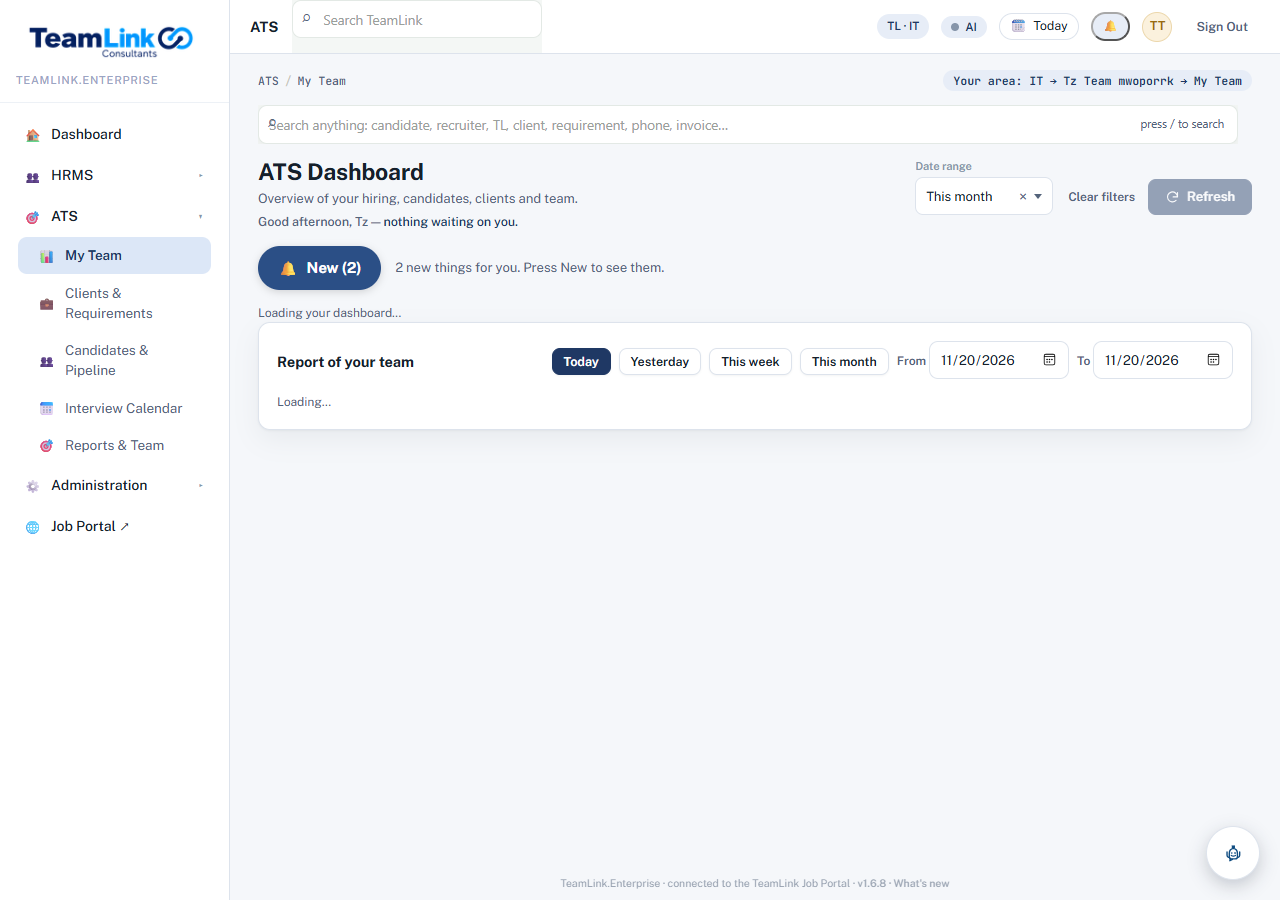
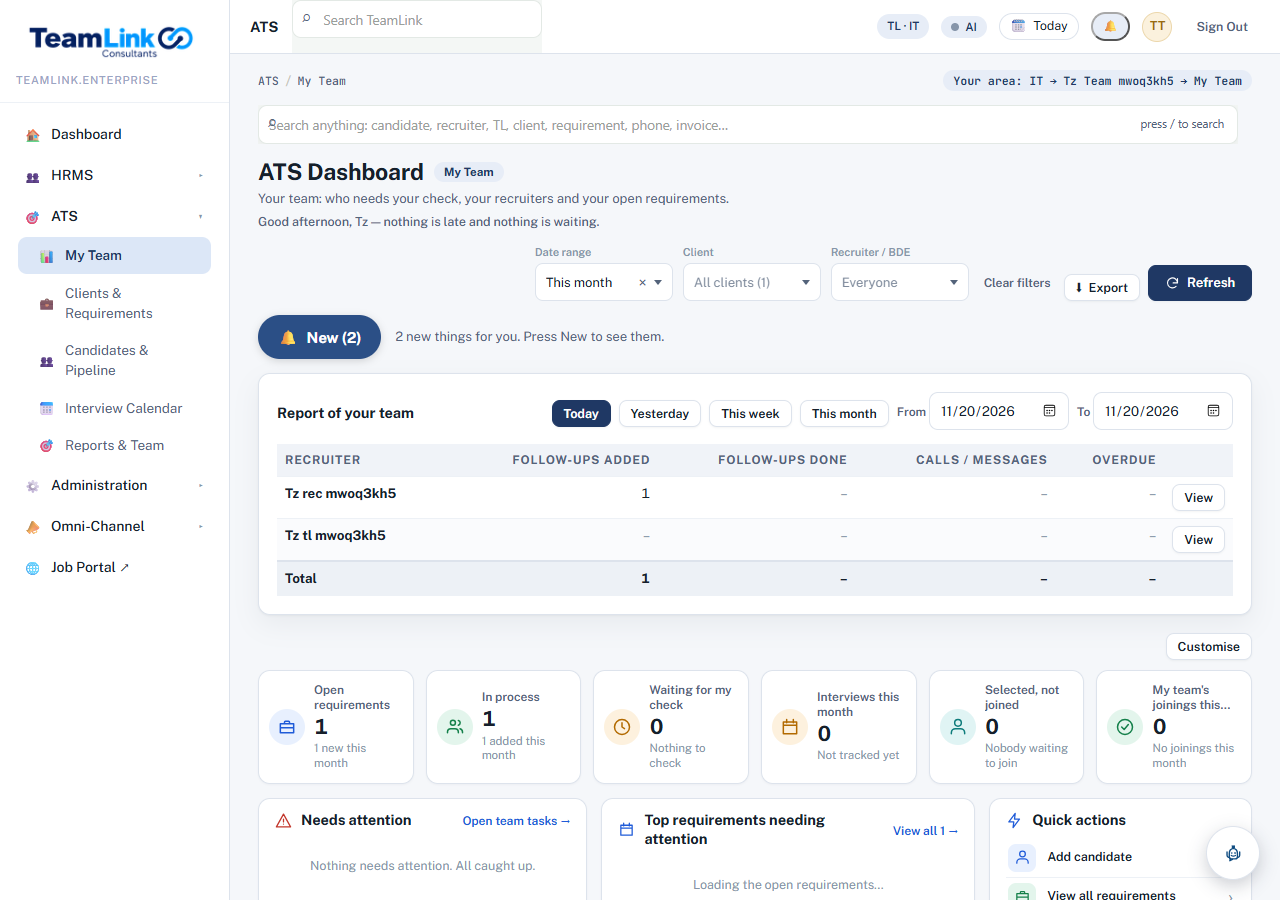
Dashboard: no Carried over / End-of-day cards for a Super Admin; Change team lead offers every department's team leads to a company-wide login; browser smoke and screenshots

diff --git a/backend/scripts/team-report-smoke.js b/backend/scripts/team-report-smoke.js
@@ -40,7 +40,7 @@ const waitFor = async (url, tries = 240) => { for (let i = 0; i < tries; i += 1)
 (async () => {
   const mk = (tag, data, emp) => prisma.user.create({ data: { name: `Tz ${tag} ${RUN}`, email: `tz.${tag}.${RUN}@tz-test.in`, username: `tz.${tag}.${RUN}@tz-test.in`, passwordHash: 'x', status: 'Active', hrmsRole: 'NONE', ...data } })
     .then(async (u) => { if (emp) await prisma.employee.create({ data: { employeeCode: `TZ-${tag}-${RUN}`, name: u.name, userId: u.id, designation: 'Employee', employmentStatus: 'Active', department: 'IT', email: u.email, ...emp } }); return u; });
-  const sa = await mk('admin', { role: 'SUPER_ADMIN', atsRole: 'SUPER_ADMIN', accountsAccess: true, accountsRole: 'SUPER_ADMIN' });
+  const sa = await mk('admin', { role: 'SUPER_ADMIN', atsRole: 'SUPER_ADMIN', accountsAccess: true, accountsRole: 'SUPER_ADMIN', atsAccess: true });
   const tl = await mk('tl', { role: 'TL', atsRole: 'TL', atsDepartment: 'IT', atsScopeDepartments: 'IT', atsScopeTeams: `Tz Team ${RUN}` }, { designation: 'TL', department: 'IT', team: `Tz Team ${RUN}` });
   const rec = await mk('rec', { role: 'EMPLOYEE', atsRole: 'RECRUITER', atsDepartment: 'IT', atsScopeDepartments: 'IT' }, { tl: tl.name, department: 'IT', team: `Tz Team ${RUN}` });
   const client = await prisma.client.create({ data: { name: `Tzorbit Systems ${RUN}`, ownerDepartment: 'IT', agreementStatus: 'ACTIVE' } });
@@ -113,10 +113,12 @@ const waitFor = async (url, tries = 240) => { for (let i = 0; i < tries; i += 1)
       const there = await btn.waitFor({ state: 'visible', timeout: 90000 }).then(() => true).catch(() => false);
       check('Admin: the dashboard has an Overall report button, and no team card of its own', there && (await page.locator('.trc', { hasText: 'Report of your team' }).count()) === 0);
       if (there) {
+        await page.waitForTimeout(3000);
+        check('Admin: no "Carried over from yesterday" and no "My end-of-day report" on the dashboard', !(await page.evaluate(() => /Carried over from yesterday|My end-of-day report/.test(document.body.innerText))));
         await btn.click();
         const panel = page.locator('.trd-panel', { hasText: 'Overall report' });
         const ok = await panel.locator('tr', { hasText: rec.name }).waitFor({ state: 'visible', timeout: 90000 }).then(() => true).catch(() => false);
-        check('Admin: the Overall report lists everybody, with their TL', ok && (await panel.innerText()).includes(tl.name), (await panel.innerText().catch(() => '')).slice(0, 400));
+        check('Admin: the Overall report lists everybody, with their TL', ok && (await panel.innerText()).includes(tl.name), (await page.evaluate(() => { const w = document.querySelector('.trd-wrap'); return w ? w.innerText.slice(0, 500) : `no panel; body: ${document.body.innerText.slice(0, 200)}`; }).catch(() => 'eval failed')));
         await page.screenshot({ path: path.join(SHOTS, 'admin-overall.png') });
         if (ok) {
           await panel.locator('tr', { hasText: rec.name }).locator('button', { hasText: 'View' }).click();

diff --git a/backend/scripts/change-tl-test.js b/backend/scripts/change-tl-test.js
@@ -67,6 +67,10 @@ const old = new Date(Date.now() - 3600e3);
   const sTL1 = await seat('TL1', 'TL', tl1, 'Team A', sSTL.id);
   const sTL2 = await seat('TL2', 'TL', tl2, 'Team B', sSTL.id);
   await seat('TL3', 'TL', tl3, 'Team B', sSTL.id);
+  // a team lead of ANOTHER department (founder 2026-11-20: a company-wide login searches any team lead's name)
+  const tlM = await mk('tlm', 'TL', { dept: 'Medical' });
+  const sTLM = await prisma.position.create({ data: { code: `TLM-${P}`, name: 'TLM', department: 'Medical', team: 'Team M', kind: 'TL', active: true } });
+  await prisma.positionAssignment.create({ data: { positionId: sTLM.id, employeeId: tlM.e.id, fromDate: '2026-01-01' } });
   const sR1 = await seat('R1', 'RECRUITER', r1, 'Team A', sTL1.id);
   const sR2 = await seat('R2', 'RECRUITER', r2, 'Team B', sTL2.id);
   const client = await prisma.client.findFirst({});
@@ -107,6 +111,14 @@ const old = new Date(Date.now() - 3600e3);
     check(`options as ${who}: the current team lead (TL1) is listed but marked current, the others are not`, list.some((x) => x.tlUserId === tl1.u.id && x.current === true) && list.filter((x) => x.current).length === 1);
     check(`options as ${who}: "now" names TL1 and the recruiter`, o.body && o.body.now && o.body.now.tlUserId === tl1.u.id && o.body.now.recruiterId === r1.u.id, o.body && o.body.now);
     check(`options as ${who}: a team lead with no recruiter is listed with none`, !!three && three.recruiters.length === 0, three);
+  }
+  {
+    const oa = await call('GET', `/applications/${app.id}/team-lead-options`, null, tA);
+    const ot = await call('GET', `/applications/${app.id}/team-lead-options`, null, tT1);
+    const mA = ((oa.body && oa.body.options) || []).find((x) => x.tlUserId === tlM.u.id);
+    const la = ((oa.body && oa.body.options) || []);
+    check('options as an Admin: a team lead of another department is offered, marked with its department, after those of the own department', !!mA && mA.otherDept === true && mA.department === 'Medical' && la.findIndex((x) => x.tlUserId === tlM.u.id) > la.findIndex((x) => x.tlUserId === tl2.u.id), mA);
+    check('options as TL1: a team lead of another department is NOT offered (same bench as Change recruiter)', !((ot.body && ot.body.options) || []).some((x) => x.tlUserId === tlM.u.id));
   }
   check('a recruiter login cannot read the options (403)', (await call('GET', `/applications/${app.id}/team-lead-options`, null, tR1)).status === 403);
   check('a BDE login cannot read the options (403)', (await call('GET', `/applications/${app.id}/team-lead-options`, null, tB)).status === 403);

diff --git a/backend/src/utils/teamLeadChange.js b/backend/src/utils/teamLeadChange.js
@@ -137,7 +137,12 @@ async function optionsFor(user, app, scope, curIn = null) {
     select: { id: true, name: true, atsRole: true, atsDepartment: true, atsScopeDepartments: true },
   });
   const uById = new Map(users.map((u) => [u.id, u]));
-  const inJob = (u, seat) => !jobDepts.length || deptsOfUser(u).some((d) => jobDepts.includes(d)) || (seat.department && jobDepts.includes(lc(seat.department)));
+  // A login with company-wide reach (Super Admin / developer, Admin) may hand the candidate to ANY team lead, whatever the department: the job's
+  // own department comes first, the others follow with their department named (founder 2026-11-20: "I search a team lead's name and it says
+  // no match"). Everyone else is offered only the job's department(s), the same bench as Change recruiter.
+  const wide = !!(scope && scope.global);
+  const inJobOnly = (u, seat) => !jobDepts.length || deptsOfUser(u).some((d) => jobDepts.includes(d)) || (seat.department && jobDepts.includes(lc(seat.department)));
+  const inJob = (u, seat) => wide || inJobOnly(u, seat);
   // a team name is a "section" only where the department has more than one team (same rule as the profile's Section)
   const teamsOf = new Map();
   seats.forEach((p) => { if (p.team && p.department) { if (!teamsOf.has(p.department)) teamsOf.set(p.department, new Set()); teamsOf.get(p.department).add(p.team); } });
@@ -157,10 +162,11 @@ async function optionsFor(user, app, scope, curIn = null) {
     if (!u || u.atsRole !== 'TL' || !inJob(u, p) || (other.includes(u.id) && u.id !== cur.leads.tlUserId)) return;
     out.push({
       tlUserId: u.id, tlName: u.name, section: sectionOf(p), seatCode: p.code, current: u.id === cur.leads.tlUserId,
+      department: p.department || null, otherDept: !inJobOnly(u, p),
       recruiters: (recruitersOf.get(p.id) || []).sort((a, b) => a.name.localeCompare(b.name)),
     });
   });
-  out.sort((a, b) => a.tlName.localeCompare(b.tlName));
+  out.sort((a, b) => (a.otherDept === b.otherDept ? 0 : a.otherDept ? 1 : -1) || a.tlName.localeCompare(b.tlName)); // the job's department first
   return out;
 }
 

diff --git a/frontend/src/components/dashboard/AtsHome.jsx b/frontend/src/components/dashboard/AtsHome.jsx
@@ -404,7 +404,9 @@ export default function AtsHome() {
   const [error, setError] = useState('');
   const [drill, setDrill] = useState(null);
   const [carry, setCarry] = useState(null); // "Carried over from yesterday" (utils/atsWork/targets.js carryOver)
-  useEffect(() => { api.get('/ats/work/carry-over').then((r) => setCarry(r.data)).catch(() => setCarry(null)); }, []);
+  // A Super Admin / developer login does no recruiter work: no "Carried over", no "My end-of-day report" (founder 2026-11-20)
+  const ownWork = !!user && user.role !== 'SUPER_ADMIN';
+  useEffect(() => { if (ownWork) api.get('/ats/work/carry-over').then((r) => setCarry(r.data)).catch(() => setCarry(null)); }, [ownWork]);
   const [legacy] = useState(() => !!(sp.get('due') || sp.get('queue') || hash === '#pending'));
   // Refresh (v4 header): the same read again, nothing cached in between.
   const [reload, setReload] = useState(0);
@@ -638,7 +640,7 @@ export default function AtsHome() {
           </div>
         </header>
         <NewItems module="ats" />
-        {data && !asUser && <HomeWorkCards />}
+        {data && !asUser && ownWork && <HomeWorkCards />}
         {ofBanner}
         {(f.department || extraChips.length > 0) && (
           <div className="av4-chips">

diff --git a/frontend/src/components/Candidate360.jsx b/frontend/src/components/Candidate360.jsx
@@ -1079,7 +1079,7 @@ function ChangeTeamLead({ app, ownership, onClose, onDone }) {
         <span>The new team lead</span>
         <Combo value={tl} onChange={(e) => pickTl(e.target.value)}>
           <option value="">{data === null ? 'Loading…' : 'Choose…'}</option>
-          {options.map((o) => <option key={o.tlUserId} value={o.tlUserId} disabled={!!o.current}>{`${o.tlName}${o.section ? ` - ${o.section}` : (o.seatCode ? ` - ${o.seatCode}` : '')}${o.current ? ' (current)' : ''}`}</option>)}
+          {options.map((o) => <option key={o.tlUserId} value={o.tlUserId} disabled={!!o.current}>{`${o.tlName}${o.section ? ` - ${o.section}` : (o.seatCode ? ` - ${o.seatCode}` : '')}${o.otherDept && o.department ? ` · ${o.department}` : ''}${o.current ? ' (current)' : ''}`}</option>)}
         </Combo>
       </label>
       {noRecruiter && <div className="notice red" style={{ marginBottom: 8 }}>{`${chosen.tlName} has no recruiter in this department yet, so the candidate cannot be moved to this team. Add a recruiter seat under them first.`}</div>}
